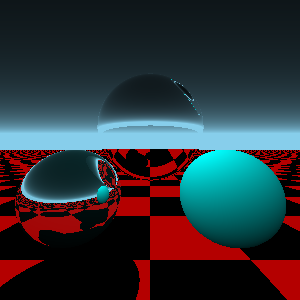
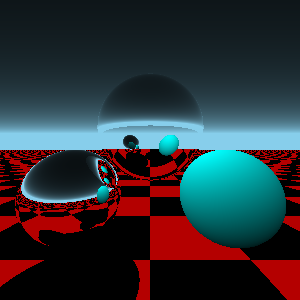
fixed reflection bug

diff --git a/raytracer.py b/raytracer.py
@@ -101,7 +101,8 @@ class Sphere:
                 continue
             found = object.find_intersection([cx,cy,cz, reflection_ray[0], reflection_ray[1], reflection_ray[2]], depth-1)
             if not isinstance(object, Plane):
-                test = self.find_intersection([x,y,z, object.pos[0], object.pos[1], object.pos[2]], -1)
+                uaa = unit_vector(np.array([object.pos[0] - x, object.pos[1] - y, object.pos[2] - z]))
+                test = self.find_intersection([x,y,z, uaa[0], uaa[1], uaa[2]], -1)
             else:
                 test = [[], 1]
             ttk = found[1]
@@ -212,7 +213,7 @@ for x in range(-int(w* precision)//2 ,int(w* precision)//2):
         color = [0,0,0]
         closest = float("inf")
         for object in scene:
-            found = object.find_intersection(ray,3)
+            found = object.find_intersection(ray,2)
             if found[-1] < closest:
                 closest = found[-1]
                 color = found[0]
